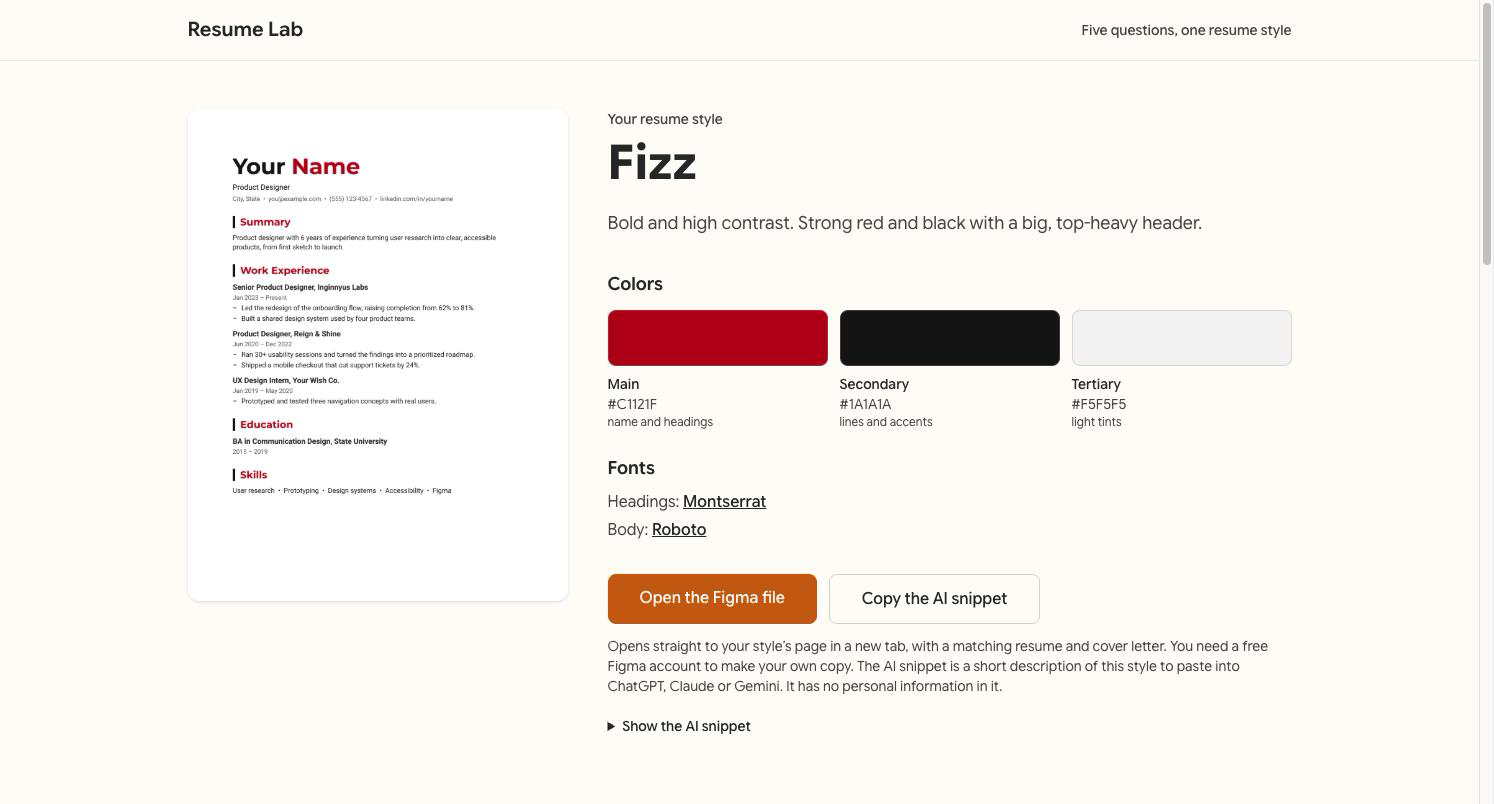
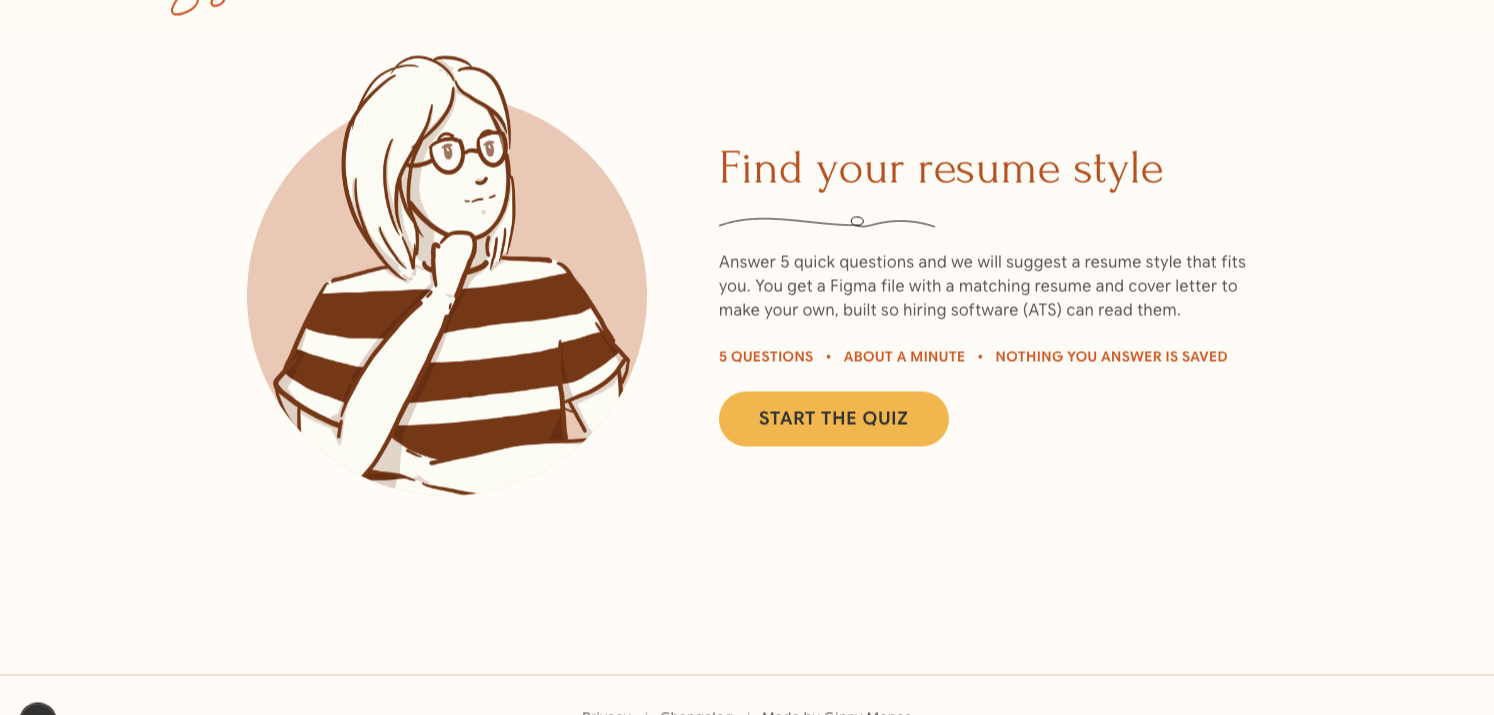
Update Resume Lab thumbnail to the new start screen

diff --git a/src/content/tools/resume-style-tool.md b/src/content/tools/resume-style-tool.md
@@ -2,7 +2,7 @@
 status: "published"
 title: "Resume Lab"
 thumbnail: "/images/tools/resume-style-tool.png"
-thumbnailAlt: "Resume Lab quiz result screen showing the Fizz style's colors, fonts and a resume preview"
+thumbnailAlt: "Resume Lab start screen: the illustrated portrait on a burnt-sienna circle beside the heading "Find your resume style" and a Start the quiz button"
 summary: "A five-question quiz that suggests one of nine ATS-friendly resume styles, then hands off a matching resume and cover letter template in Figma."
 tags: ["Web App", "Quiz"]
 projectStatus: "live"

diff --git a/CHANGELOG.md b/CHANGELOG.md
@@ -4,6 +4,13 @@ All notable changes to this project are documented here.
 
 ---
 
+## [2026-10-26] — Resume Lab thumbnail
+
+### Changed
+- The Resume Lab card on `/tools` now shows the reworked start screen (portrait on the burnt-sienna circle, "Find your resume style", Start the quiz) instead of the old result screen. Updated `public/images/tools/resume-style-tool.png` and its alt text in `src/content/tools/resume-style-tool.md`
+
+---
+
 ## [2026-10-16] — Works gallery width matches home
 
 ### Changed
